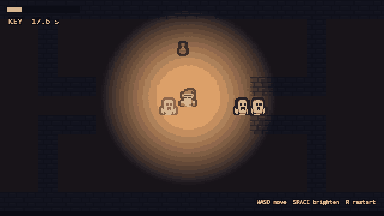
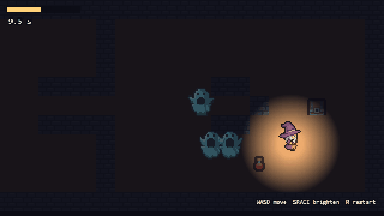
Ghost Lantern: README GIF and gallery still remade with the new sprites (refs #17)
The README gets "Remake the GIF": the autoplay escape recorded by smoke --record into the
gitignored captures/, then frames_to_gif.py at 128 colours (at 64 the wizard's purple turns
brown), every 3rd frame at 10 fps: 89 frames, 1.1 MB. The kit README's gallery still is a
frame from the same run.

diff --git a/examples/ghost-lantern/README.md b/examples/ghost-lantern/README.md
@@ -41,6 +41,15 @@ python tools/dev.py smoke --query autoplay --until ESCAPED --fail-on CAUGHT    #
 python tools/dev.py smoke --query autoplay=dark --until CAUGHT                 # ...and without it you are caught
 ```
 
+### Remake the GIF
+The GIF at the top is the autoplay bot's escape, recorded by the smoke run (`captures/` is gitignored). Remake it after
+the art or the level changes:
+```
+python tools/dev.py smoke --query autoplay --until ESCAPED --record captures/gif
+python tools/art/frames_to_gif.py captures/gif docs/ghost-lantern.gif --every 3 --fps 10 --width 384 --colors 128 --overwrite
+```
+128 colours keep the wizard's purple (at 64 it turns brown); the result is about 90 frames and 1.1 MB.
+
 ## Credits and licenses
 - Game: copyright er2oneousbit, all rights reserved, free to read, run, study and reference (`../LICENSE.md`).
   Kit-provided files (`tools/`, `.claude/`, the docs templates) stay MIT (`../../LICENSE`).

diff --git a/examples/ghost-lantern/HOW_IT_WAS_MADE.md b/examples/ghost-lantern/HOW_IT_WAS_MADE.md
@@ -138,8 +138,8 @@ What did not work first:
   tool asks for transparent frames and refuses both before sending.
 
 Verified: `check`, 160 tests, `smoke`, the scenario pair (`?autoplay` escapes, `?autoplay=dark` is caught) and
-`smoke --screenshot` shots looked at by eye: the keeper and the ghosts read against the tiles. The README GIF still
-shows the old tiles.
+`smoke --screenshot` shots looked at by eye: the keeper and the ghosts read against the tiles. The README GIF was then remade from the autoplay escape with the kit's own commands
+(README "Remake the GIF"); at 64 colours the wizard's purple turned brown, so it uses 128.
 
 ## 9. Outside the kit (be honest)
 - Before writing `src/game/level.ts`, the map was sanity-checked once with a few lines of throwaway Python (row lengths,
